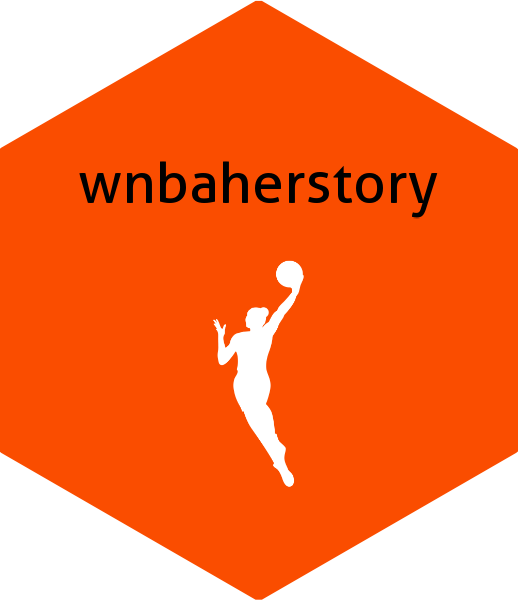
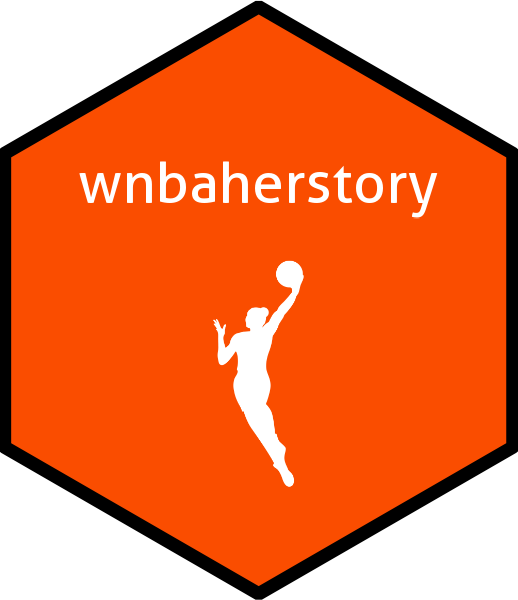
updated readme, final hexsticker, and namespace

Changed region(s): [[0.0, 0.0, 1.0, 1.0], [0.1544, 0.27, 0.834, 0.36], [0.834, 0.27, 0.8649, 0.3]]

diff --git a/README.md b/README.md
@@ -1,2 +1,38 @@
-# wnbar
-WNBA package showing historical trends
+
+<!-- README.md is generated from README.Rmd. Please edit that file -->
+
+# wnbaherstory
+
+<!-- badges: start -->
+<!-- badges: end -->
+
+## Overview
+
+The goal of wnbaherstory is to provide historical data on the WNBA.
+Users can discover past and present WNBA teams, player history, player
+awards, game attendance and more.
+
+## Installation
+
+You can install the development version of wnbaherstory from
+[GitHub](https://github.com/) with:
+
+``` r
+# install.packages("pak")
+pak::pak("sds270-f24/wnbaherstory")
+```
+
+## Example
+
+This is a basic example which shows you how to solve a common problem:
+
+``` r
+library(wnbaherstory)
+## basic example code
+```
+
+## Contributors
+
+- [Jane Loo](https://github.com/janeloo10)
+- [Ella Sylvester](https://github.com/esylvester04)
+- [Alina Abdulina](https://github.com/AlinaAbdulina)
